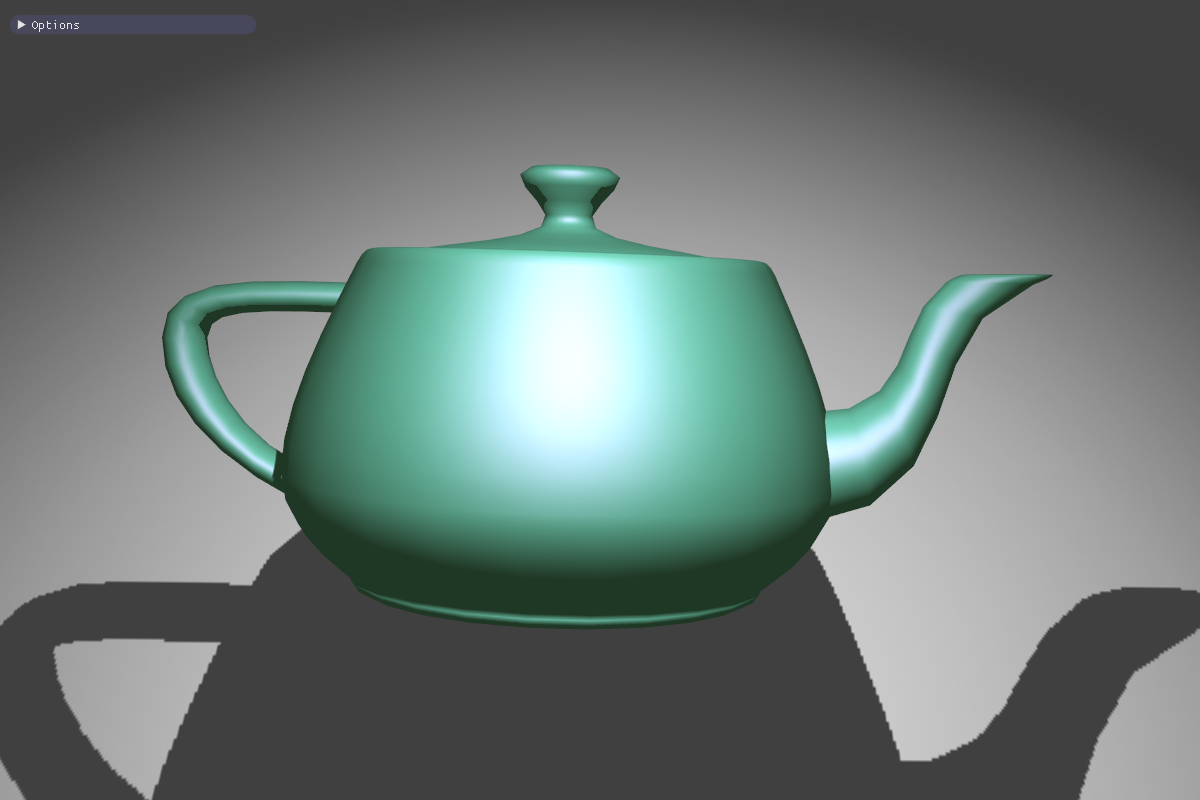
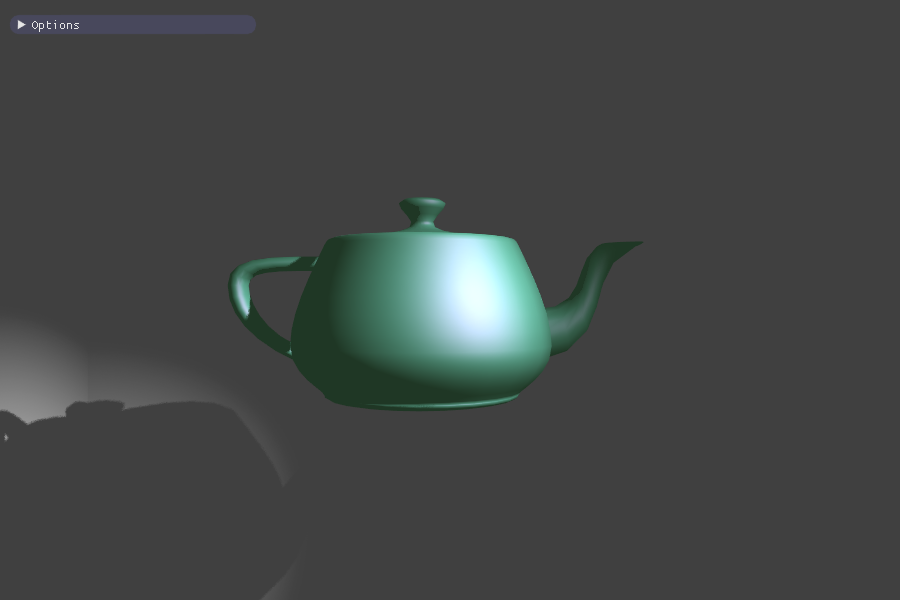
Set options to be freindlly wit the laptop.

diff --git a/CGT521YetAgain/SpotLight/SpotLightExample.cpp b/CGT521YetAgain/SpotLight/SpotLightExample.cpp
@@ -326,7 +326,7 @@ void create_glut_window() {
 	//Set number of samples per pixel
 	glutSetOption(GLUT_MULTISAMPLE, 8);
 	glutInitDisplayMode(GLUT_RGBA | GLUT_DOUBLE | GLUT_DEPTH | GLUT_MULTISAMPLE);
-	glutInitWindowSize(1200, 800);
+	glutInitWindowSize(900, 600);
 	window = glutCreateWindow("Spoth light example");
 }
 
@@ -832,7 +832,6 @@ void renderGeometryPass() {
 	mat4 I(1.0f);
 	//Model
 	mat4 M = rotation ? glm::rotate(I, TAU / 10.0f * seconds_elapsed, vec3(0.0f, 1.0f, 0.0f)) : I;
-	//M = glm::scale(M, vec3(0.1));
 	M = glm::scale(M, vec3(scaleFactor));
 	M = glm::translate(M, -meshCenter);
 	//View
